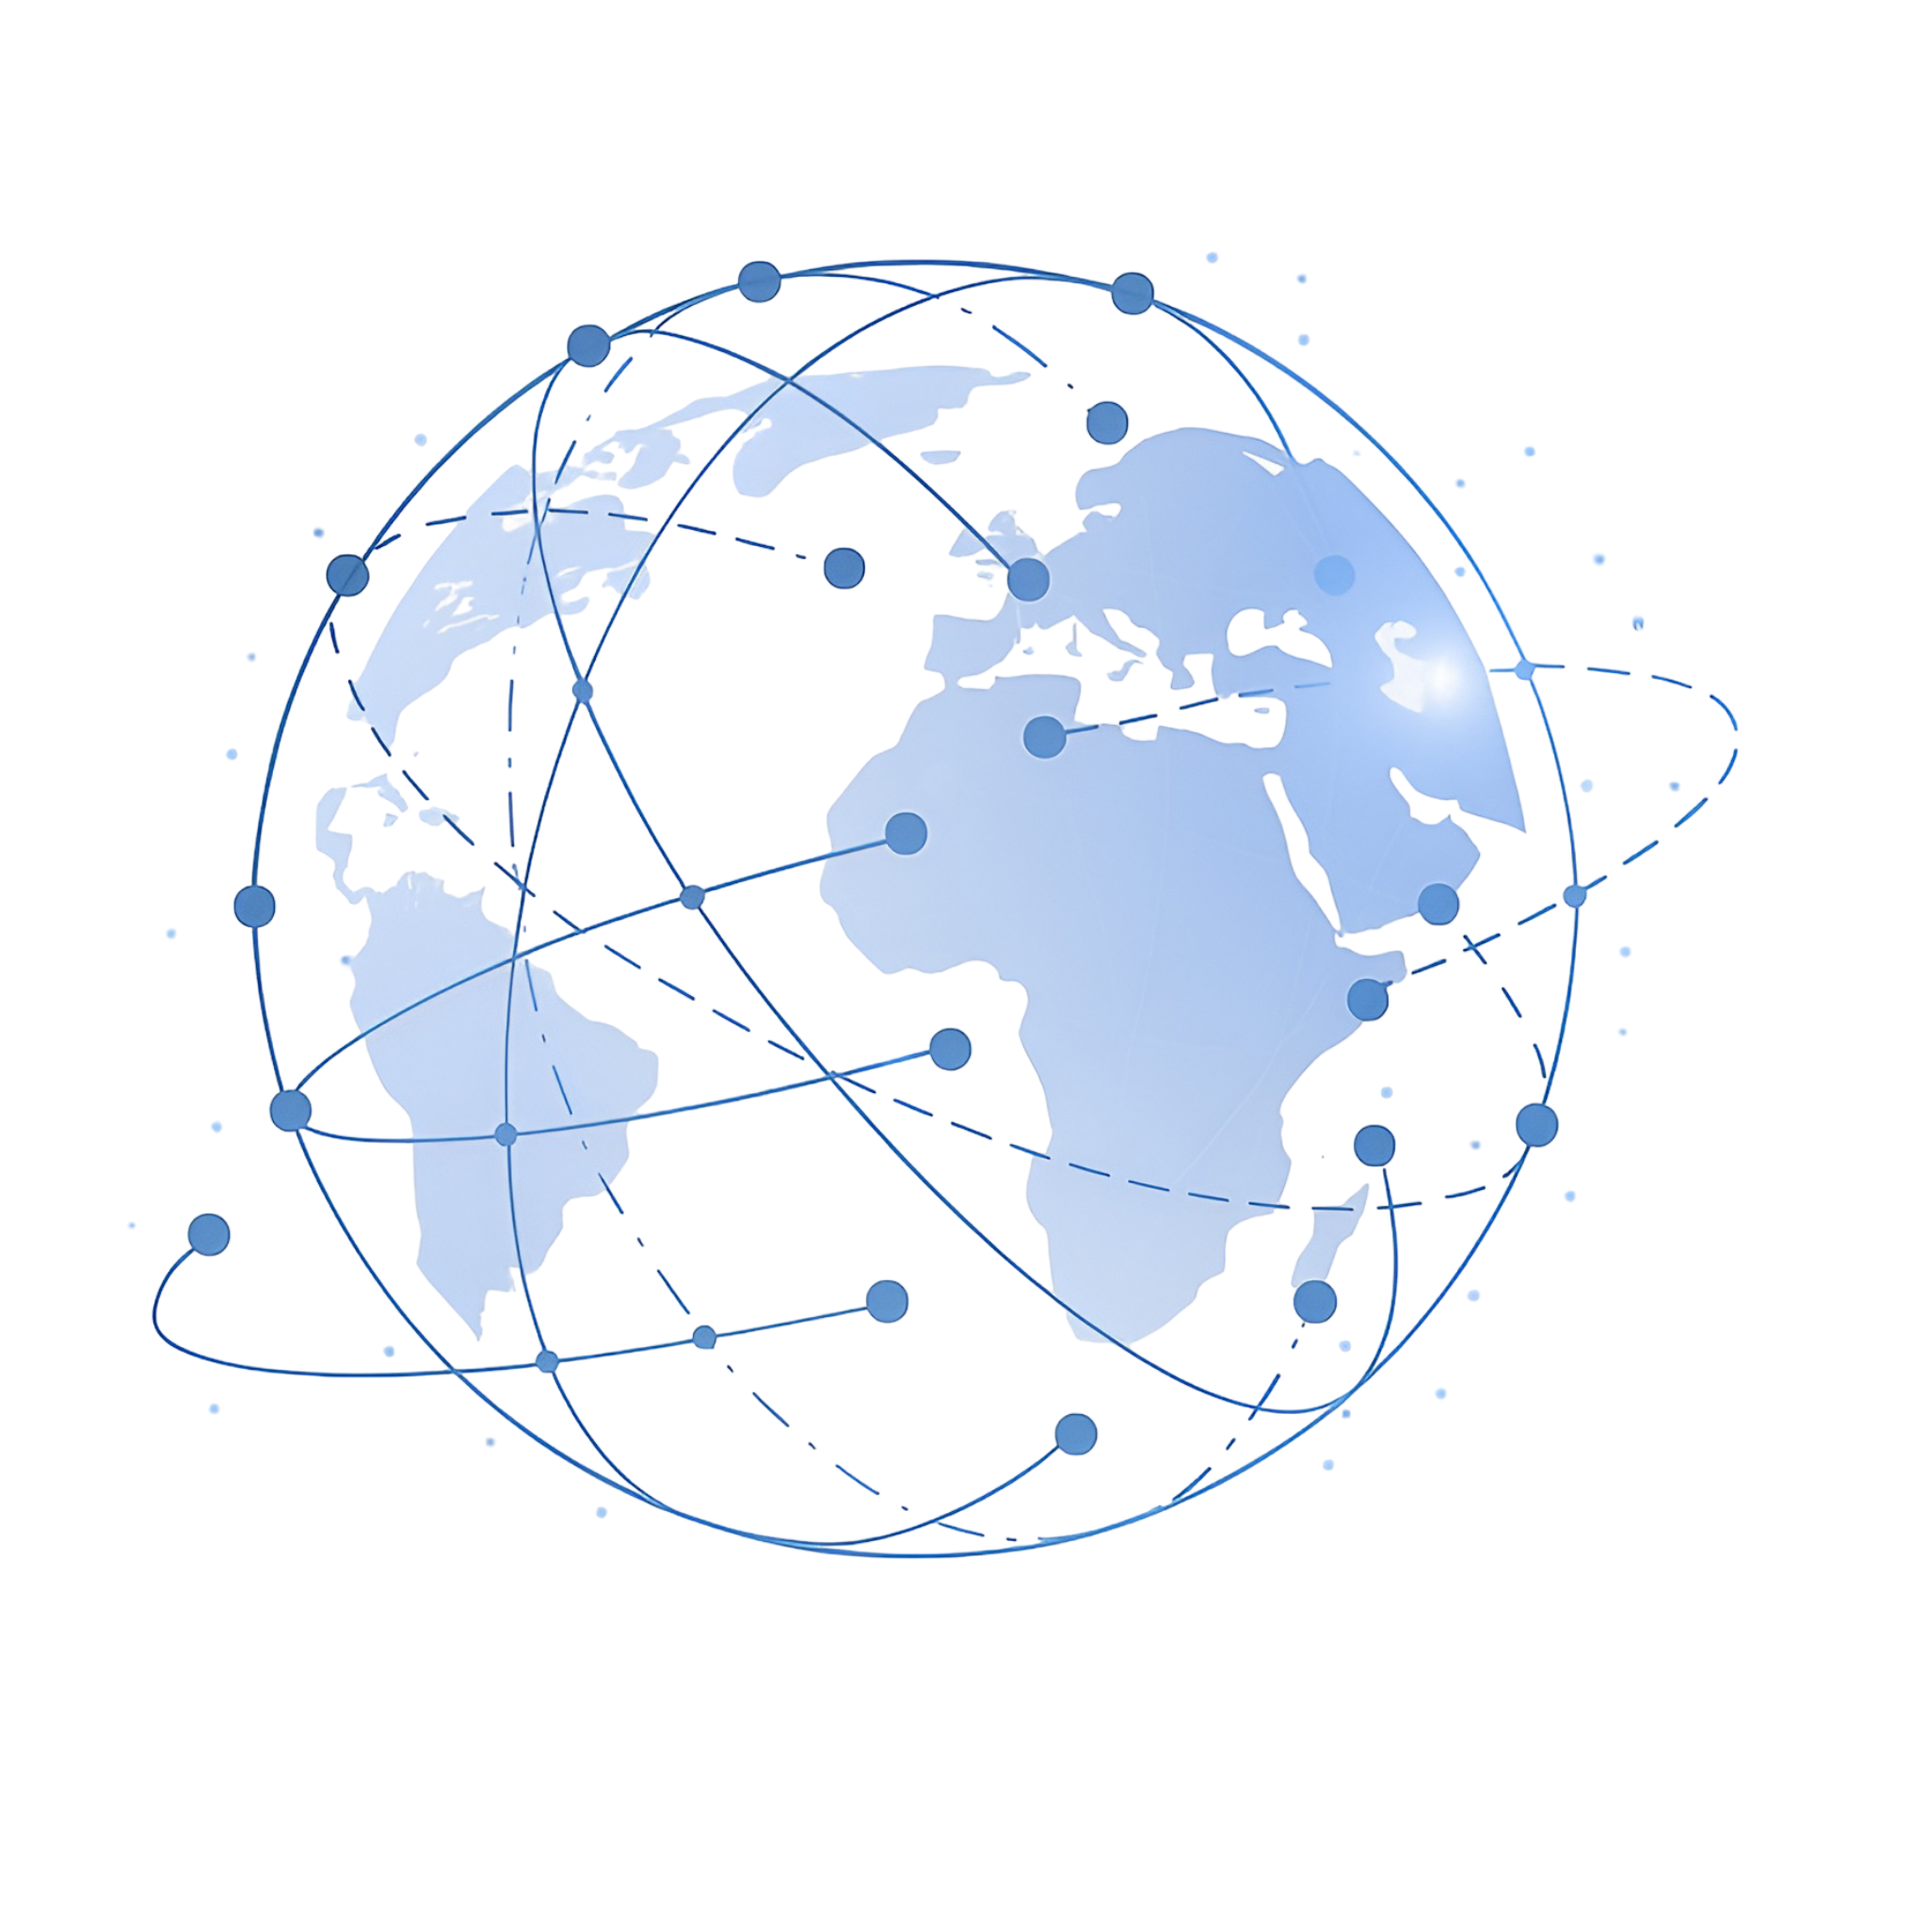
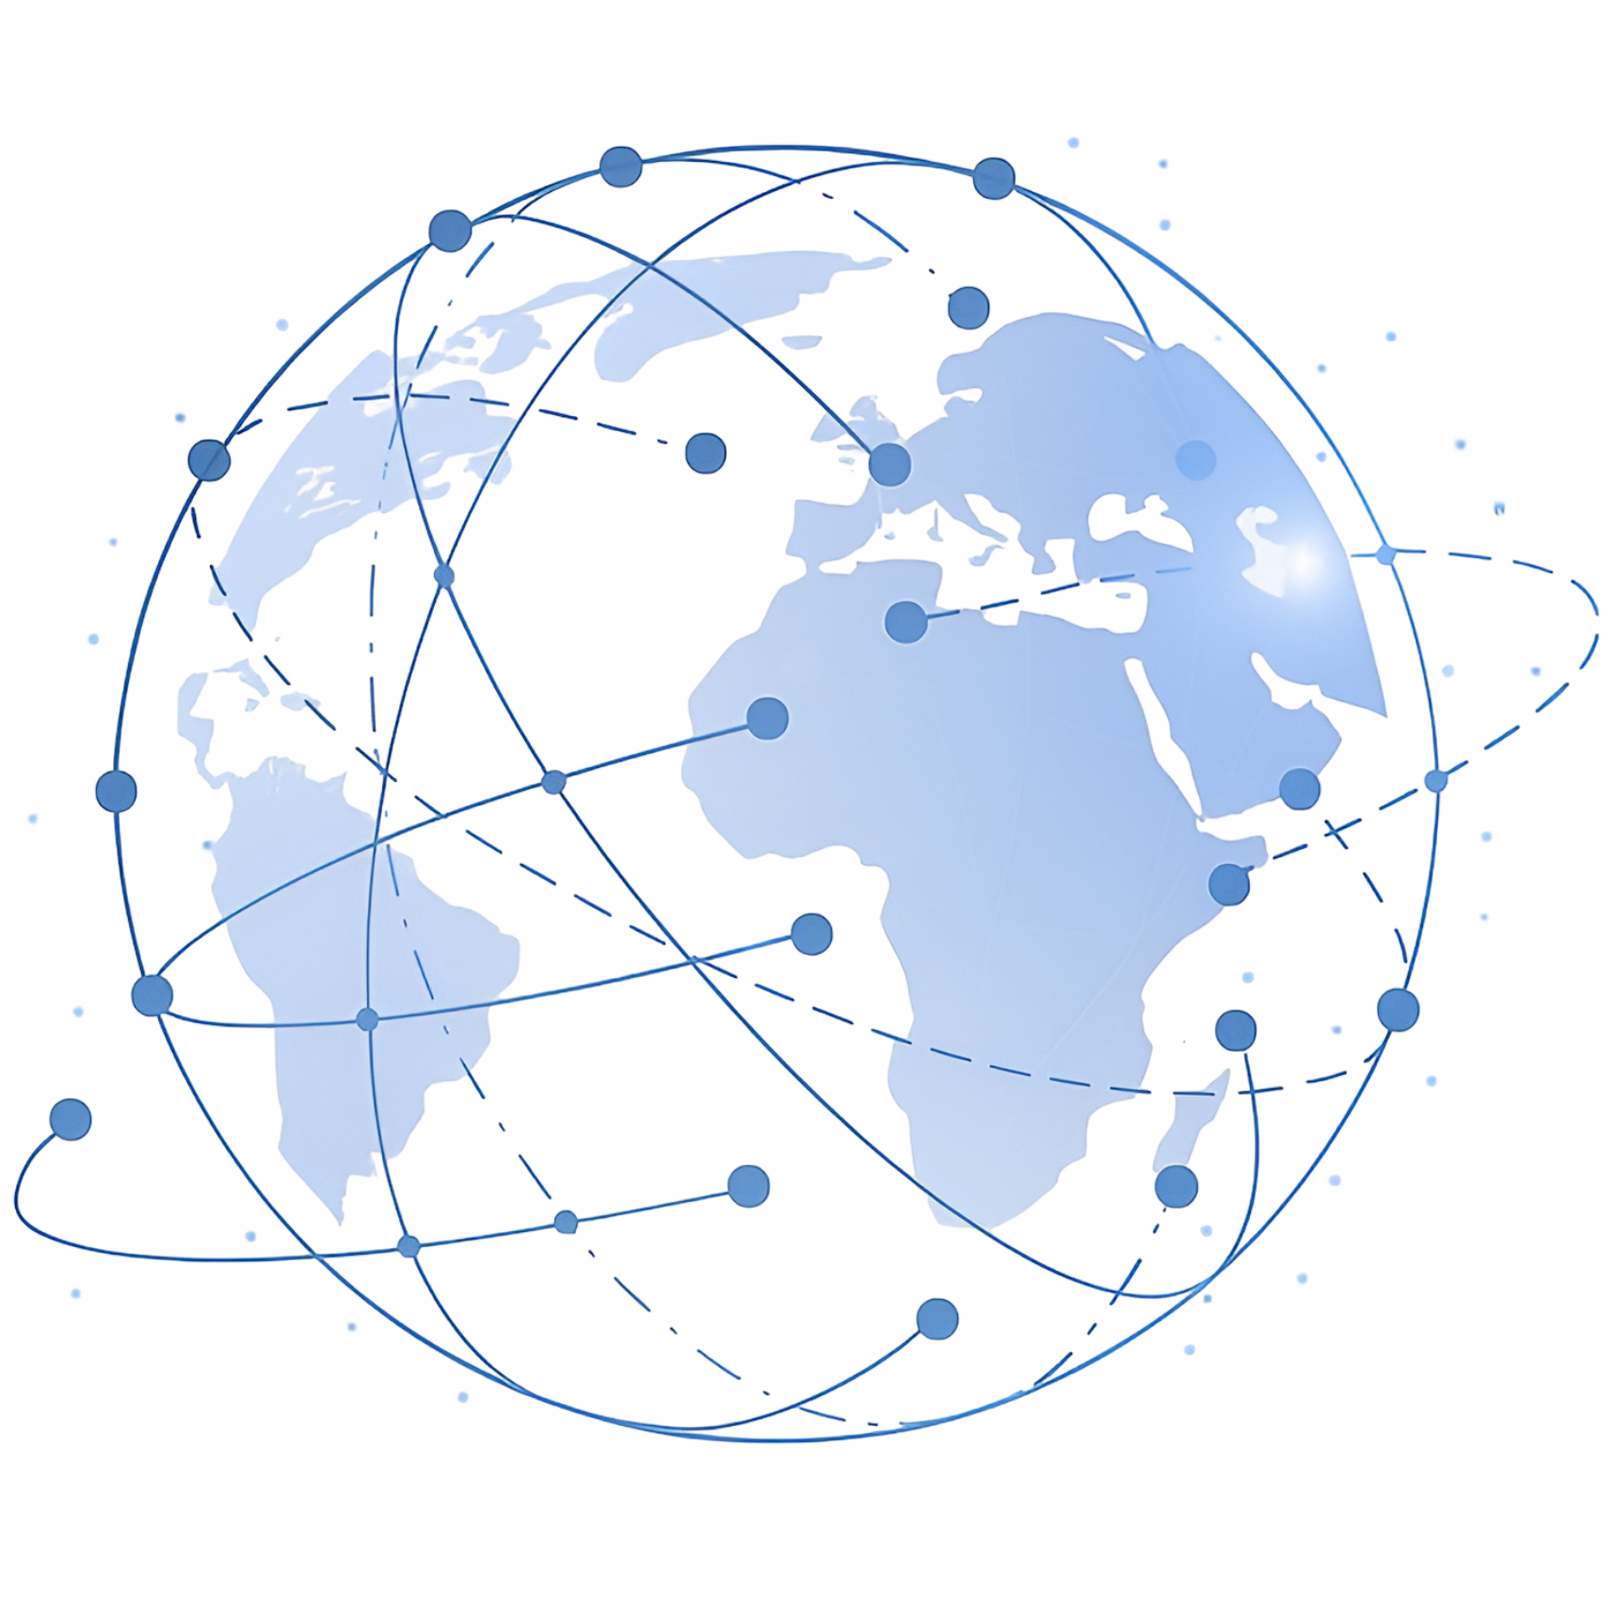
hero section

diff --git a/app/(Homepage)/GlobalSection.tsx b/app/(Homepage)/GlobalSection.tsx
@@ -3,9 +3,8 @@ import { ArrowUpRight } from "lucide-react";
 const GlobalSection = () => {
   return (
     <div className="py-20">
-      <div className="grid grid-cols-1 lg:grid-cols-2 gap-12 container mx-auto">
+      <div className="grid grid-cols-1 place-items-center lg:grid-cols-2 gap-12 container mx-auto">
         <div className="">
-          {" "}
           <h1 className="text-6xl font-[500]">
             A Worldwide Footprint,{" "}
             <span className="text-blue-500">Globally Present</span>
@@ -26,7 +25,10 @@ const GlobalSection = () => {
           </button>
         </div>
 
-        <img className="w-full object-cover h-[450px]" src={"/Global.png"} />
+        <img
+          className="w-full object-contain h-[330px] xl:h-[520px] 2xl:h-[550px]"
+          src={"/Global.png"}
+        />
       </div>
     </div>
   );
